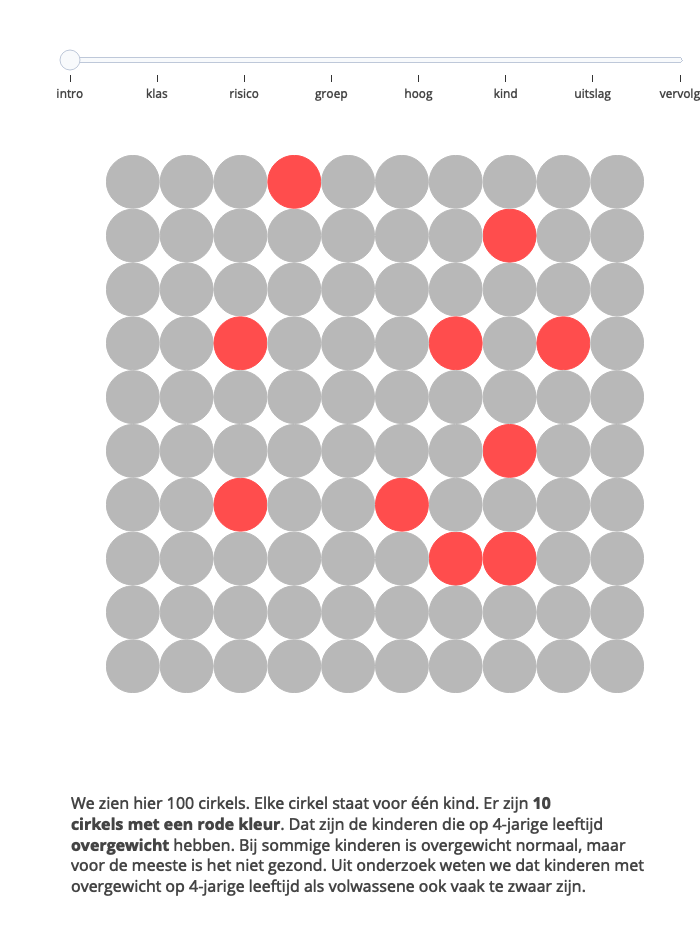
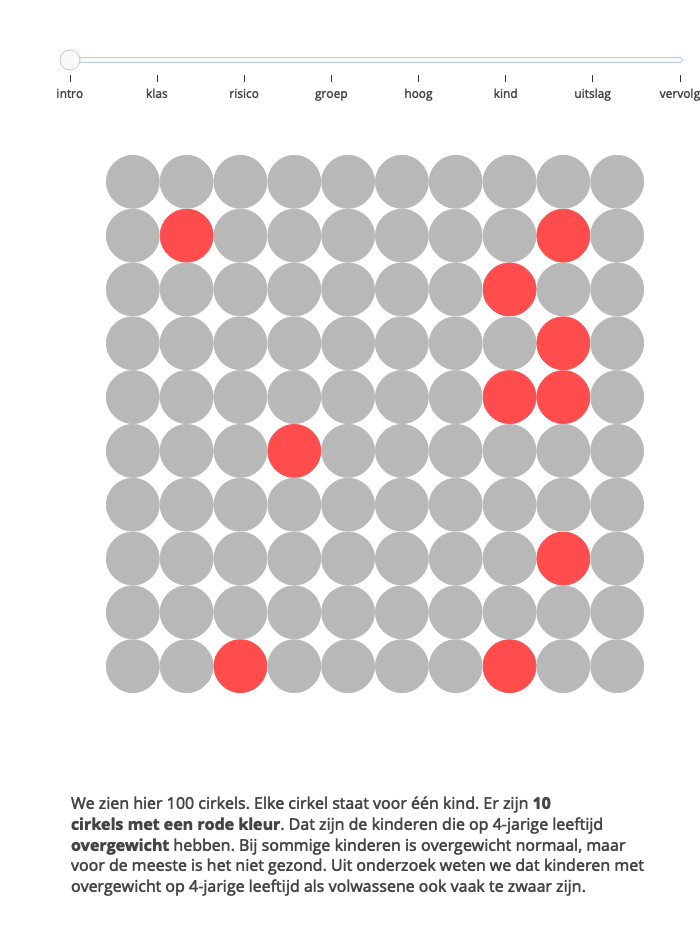
Update README

diff --git a/README.md b/README.md
@@ -26,7 +26,7 @@ present package relate to points 2 and 3.
 You can install the development version of tab10 like so:
 
 ``` r
-remotes::install_github(growthcharts/tab10)
+remotes::install_github("growthcharts/tab10")
 ```
 
 ## Example
